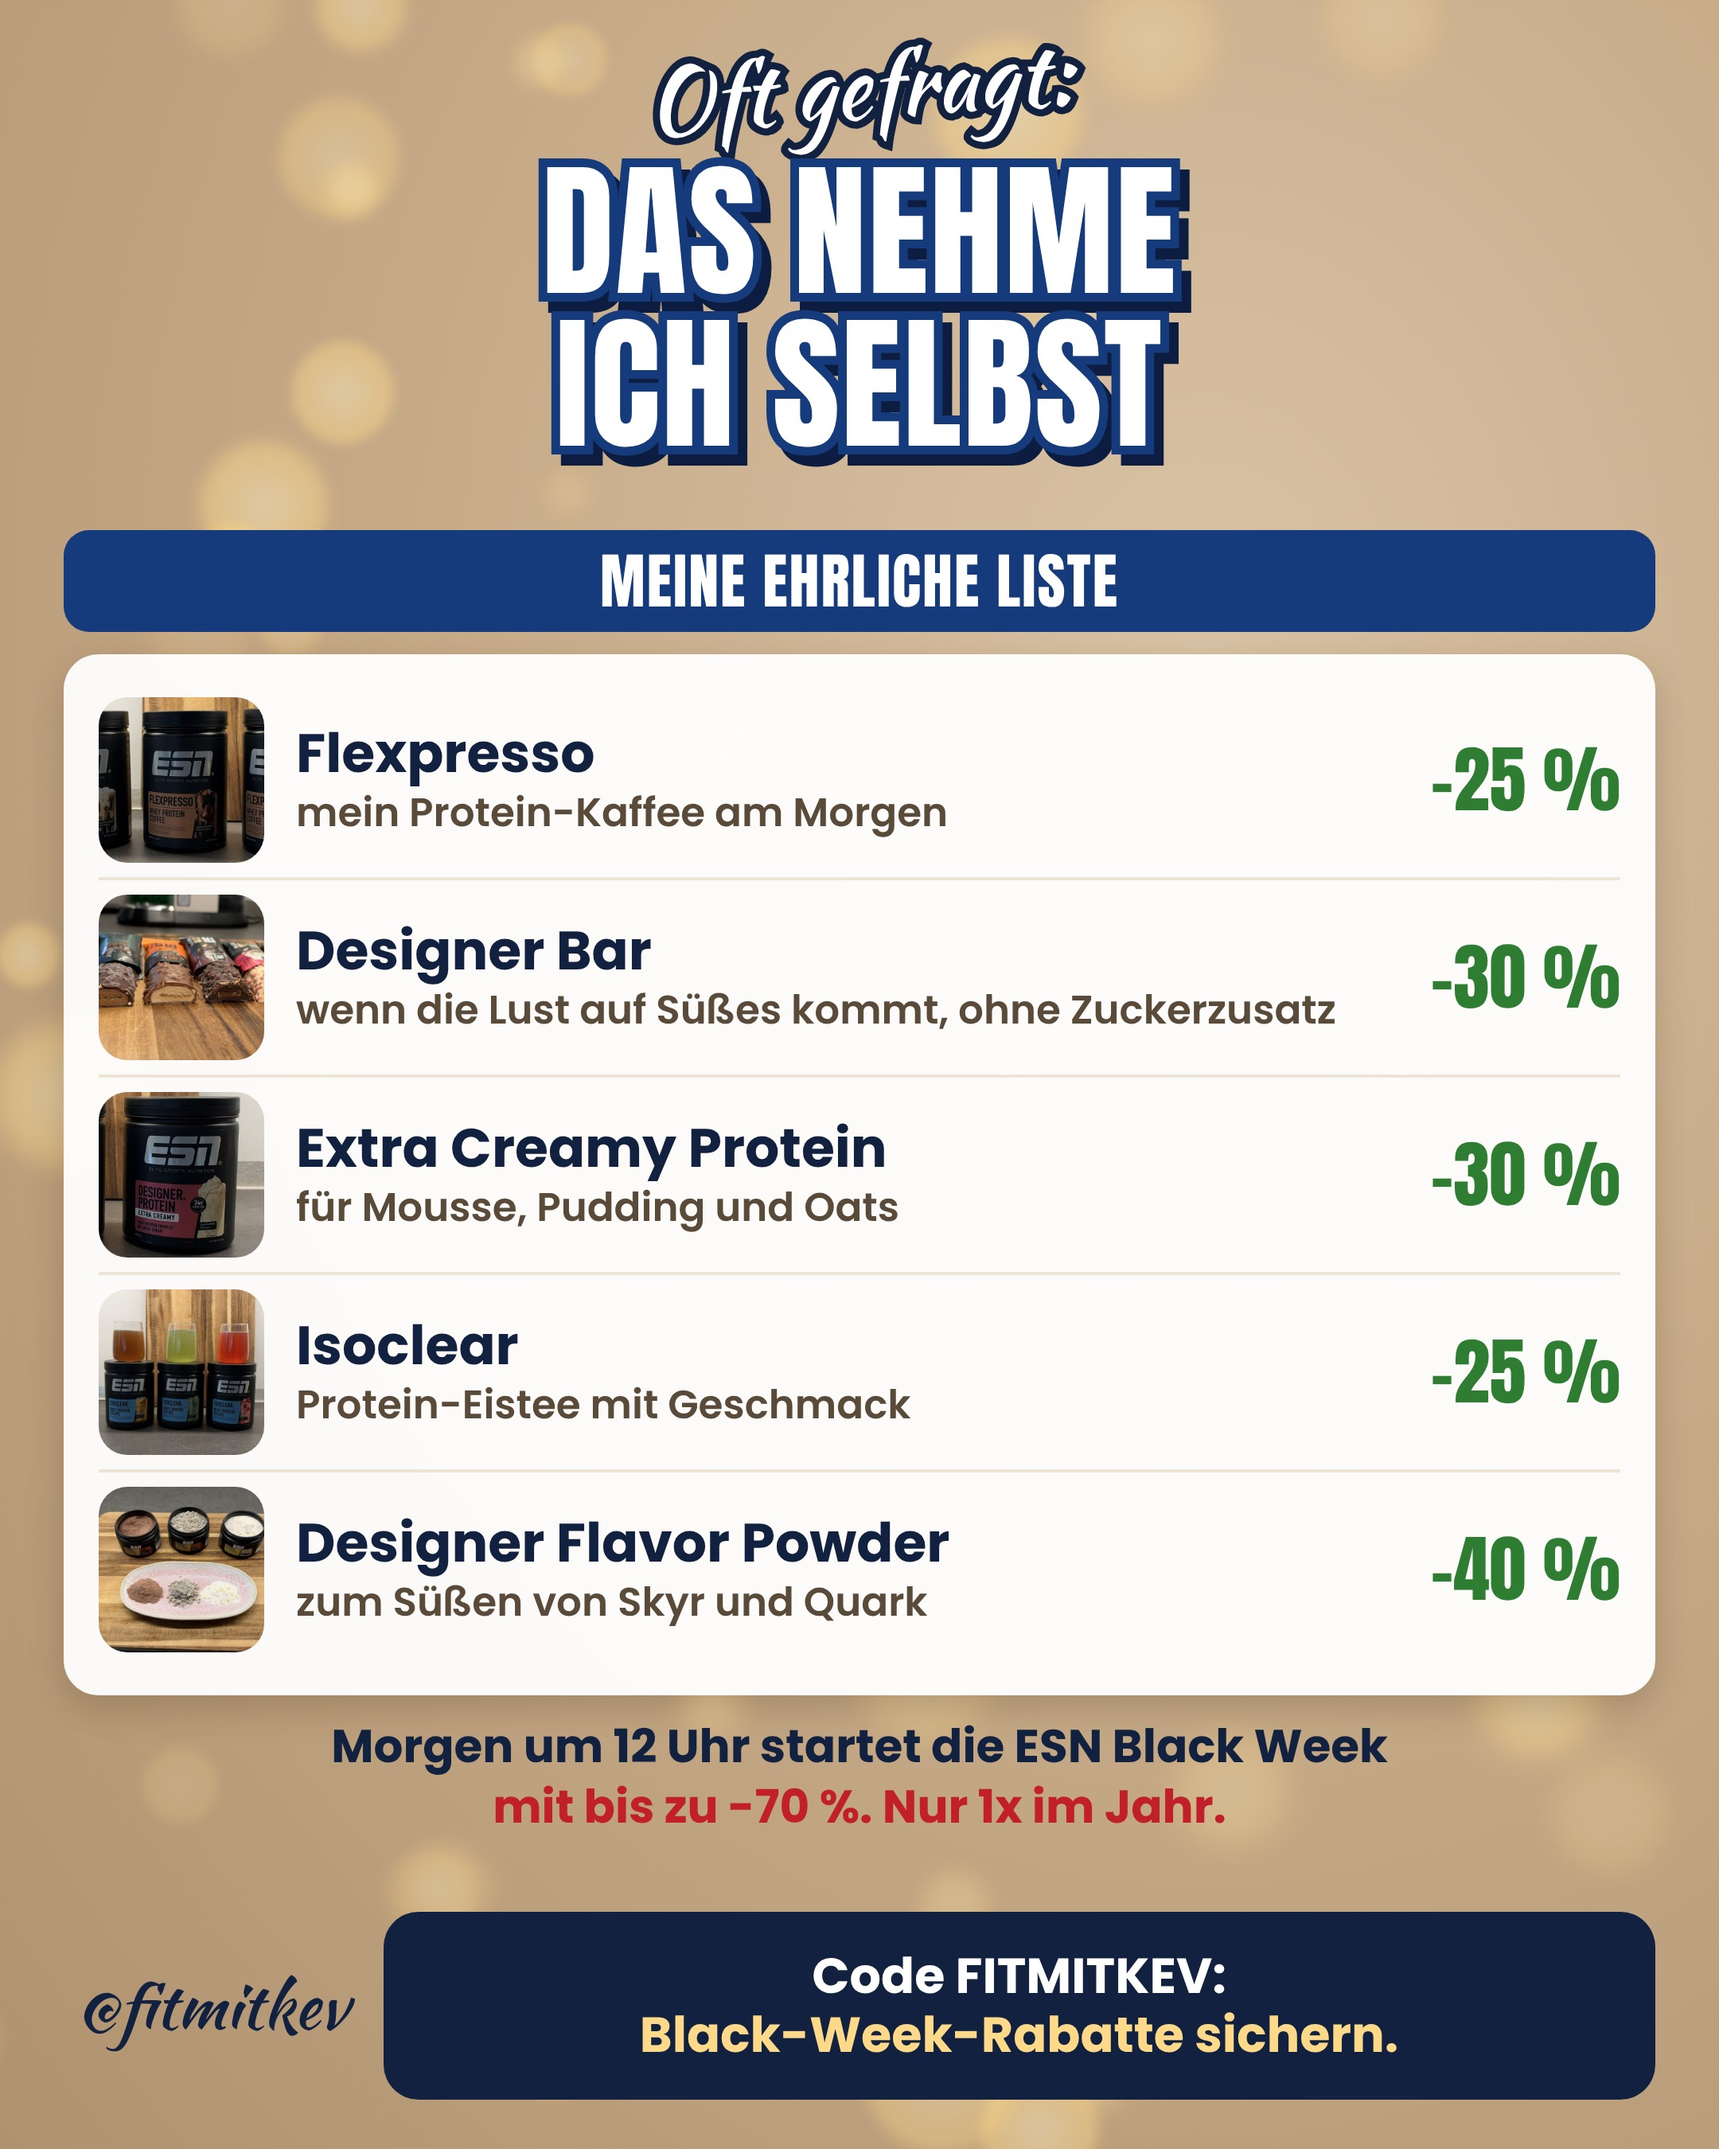
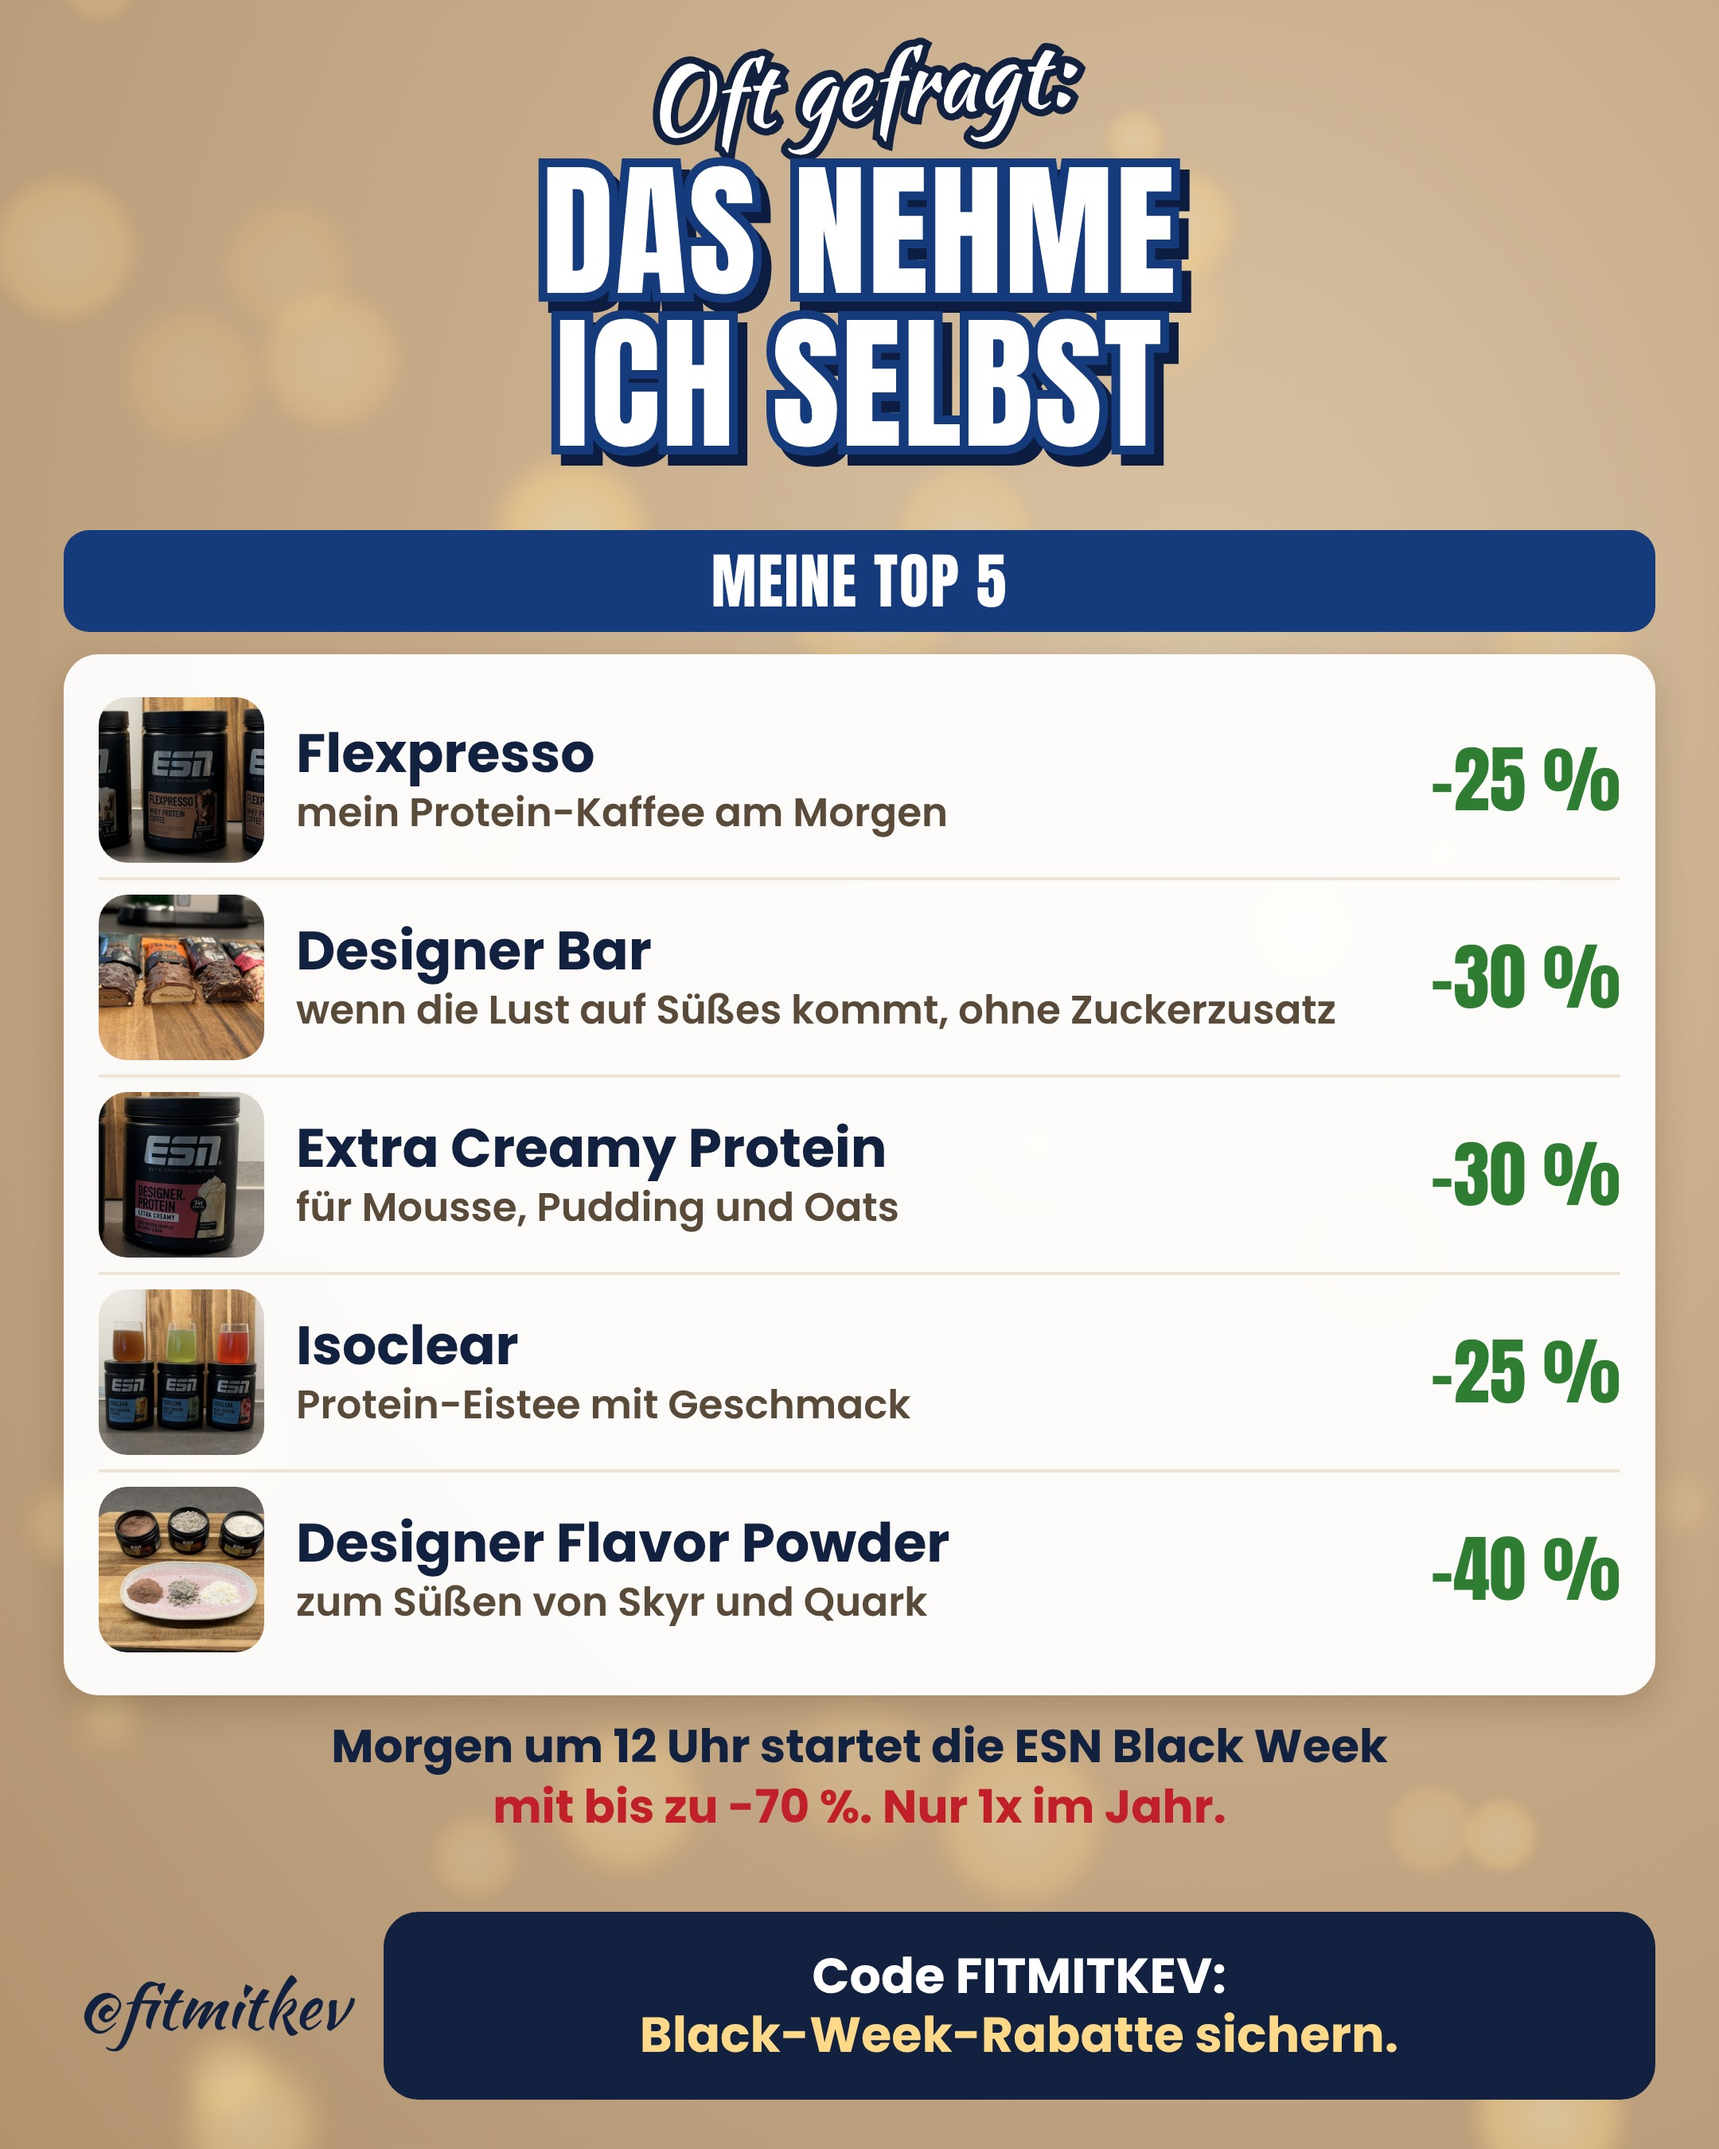
ESN K1 (Sa 21.11.): „Meine Top 5“ statt „Meine ehrliche Liste“
Claude-Session: https://claude.ai/code/session_01KPVmpRePrZAkggdzf7KsfK

diff --git a/tools/esn_produkt/esn_board.py b/tools/esn_produkt/esn_board.py
@@ -32,7 +32,7 @@ CARD={'vs':card_vs,'rows':card_rows,'prod':card_prod}
 SPEC={
  # K1/K2 (Kev 19.11., 17:45): Ankündigung Sa 21.11. und Start So 22.11. auch im Info-Design, nur ein Bild je Beitrag.
  'K1':dict(out='ESN-K1-Ankuendigung', hook='Oft gefragt:', title=['DAS NEHME','ICH SELBST'], size=92,
-   secs=[dict(lab='MEINE EHRLICHE LISTE', col=BLUE, type='rows', d=[
+   secs=[dict(lab='MEINE TOP 5', col=BLUE, type='rows', d=[
       ('kev/sq-Kev-Flexpresso-3-Sorten.jpg','Flexpresso','mein Protein-Kaffee am Morgen','-25 %'),
       ('kev/sq-Kev-Riegel-angeschnitten.jpg','Designer Bar','wenn die Lust auf Süßes kommt, ohne Zuckerzusatz','-30 %'),
       ('kev/sq-Kev-ExtraCreamy-VanillaMilk.jpg','Extra Creamy Protein','für Mousse, Pudding und Oats','-30 %'),
